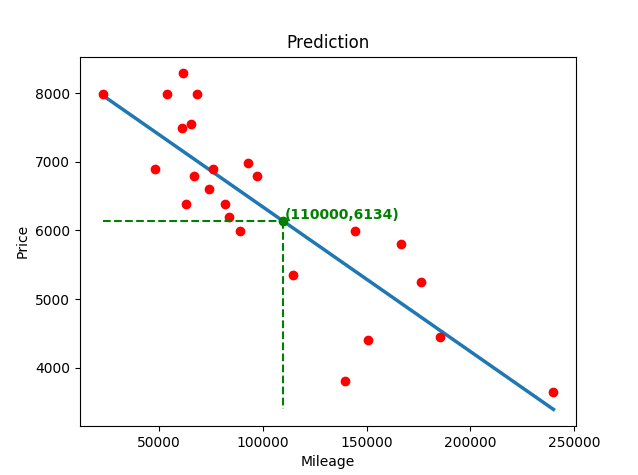
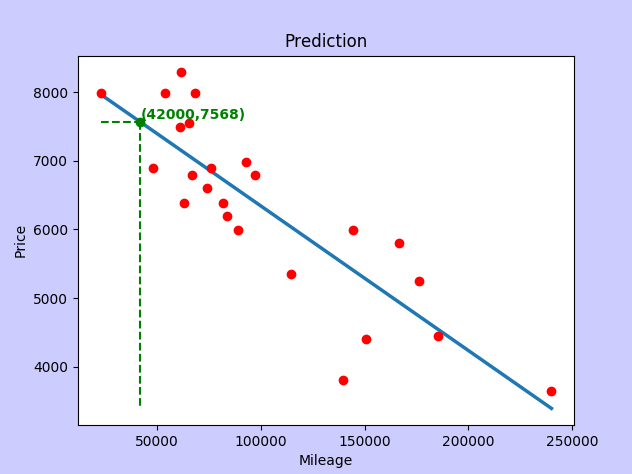
Style

diff --git a/src/GDGraph.py b/src/GDGraph.py
@@ -9,6 +9,8 @@ class GDGraph():
         self.x_lab = x_lab
         self.y_lab = y_lab
         self.title = title
+        self.figure = plt.figure()
+        self.figure.set_facecolor('#CCCCFF')
 
     def set_custom(self):
         if (self.x_lab):
